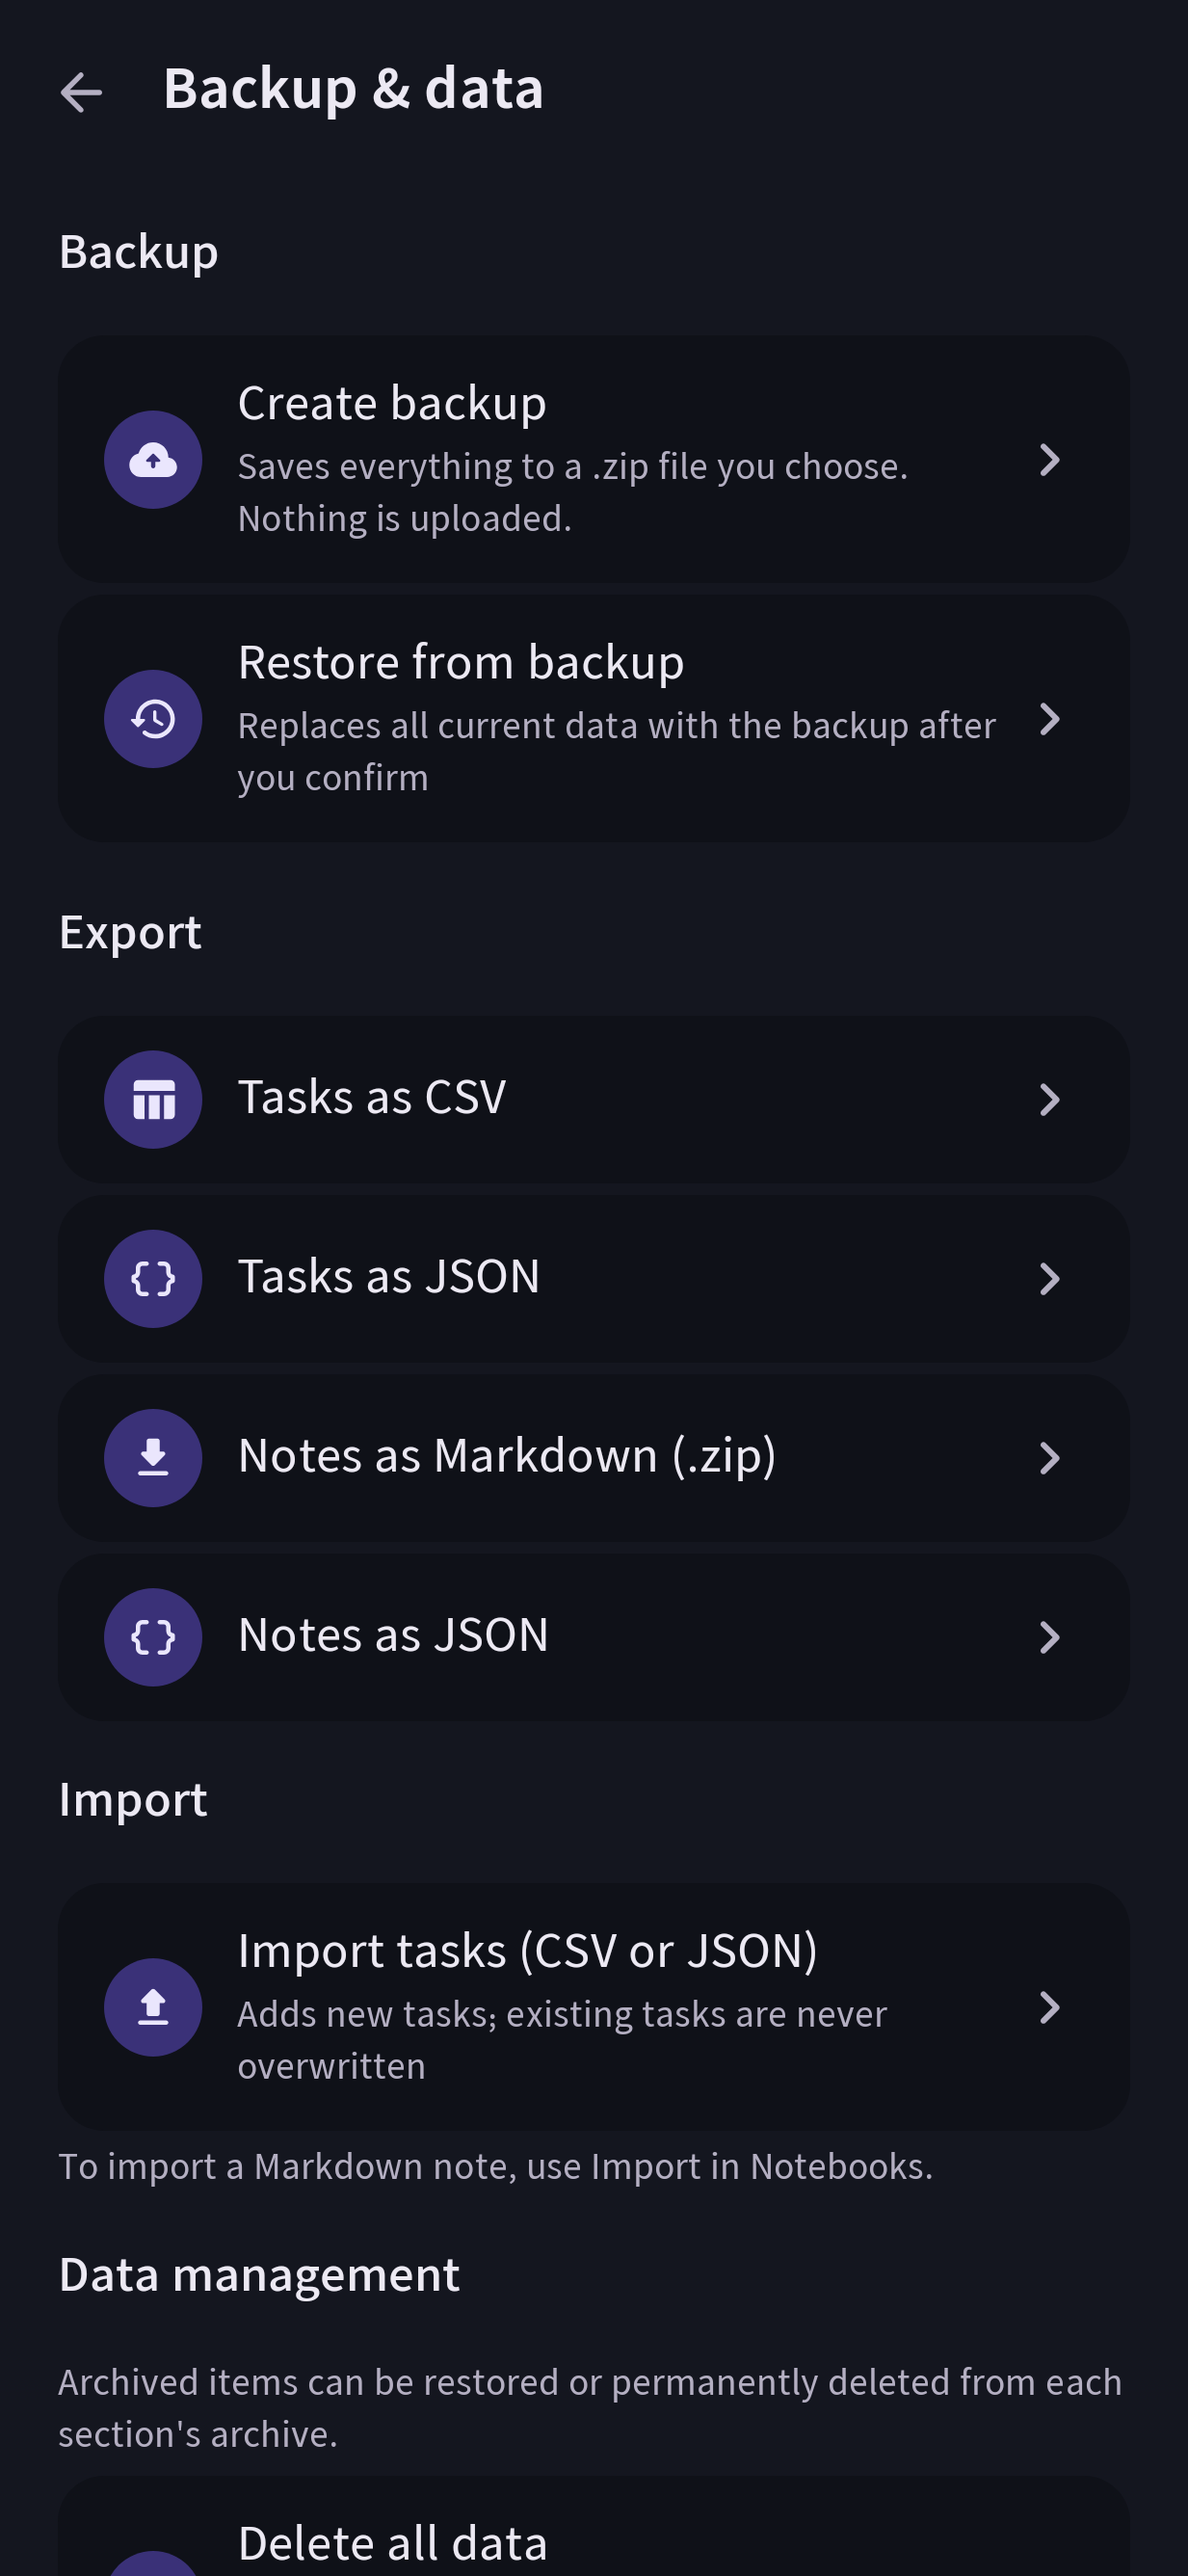
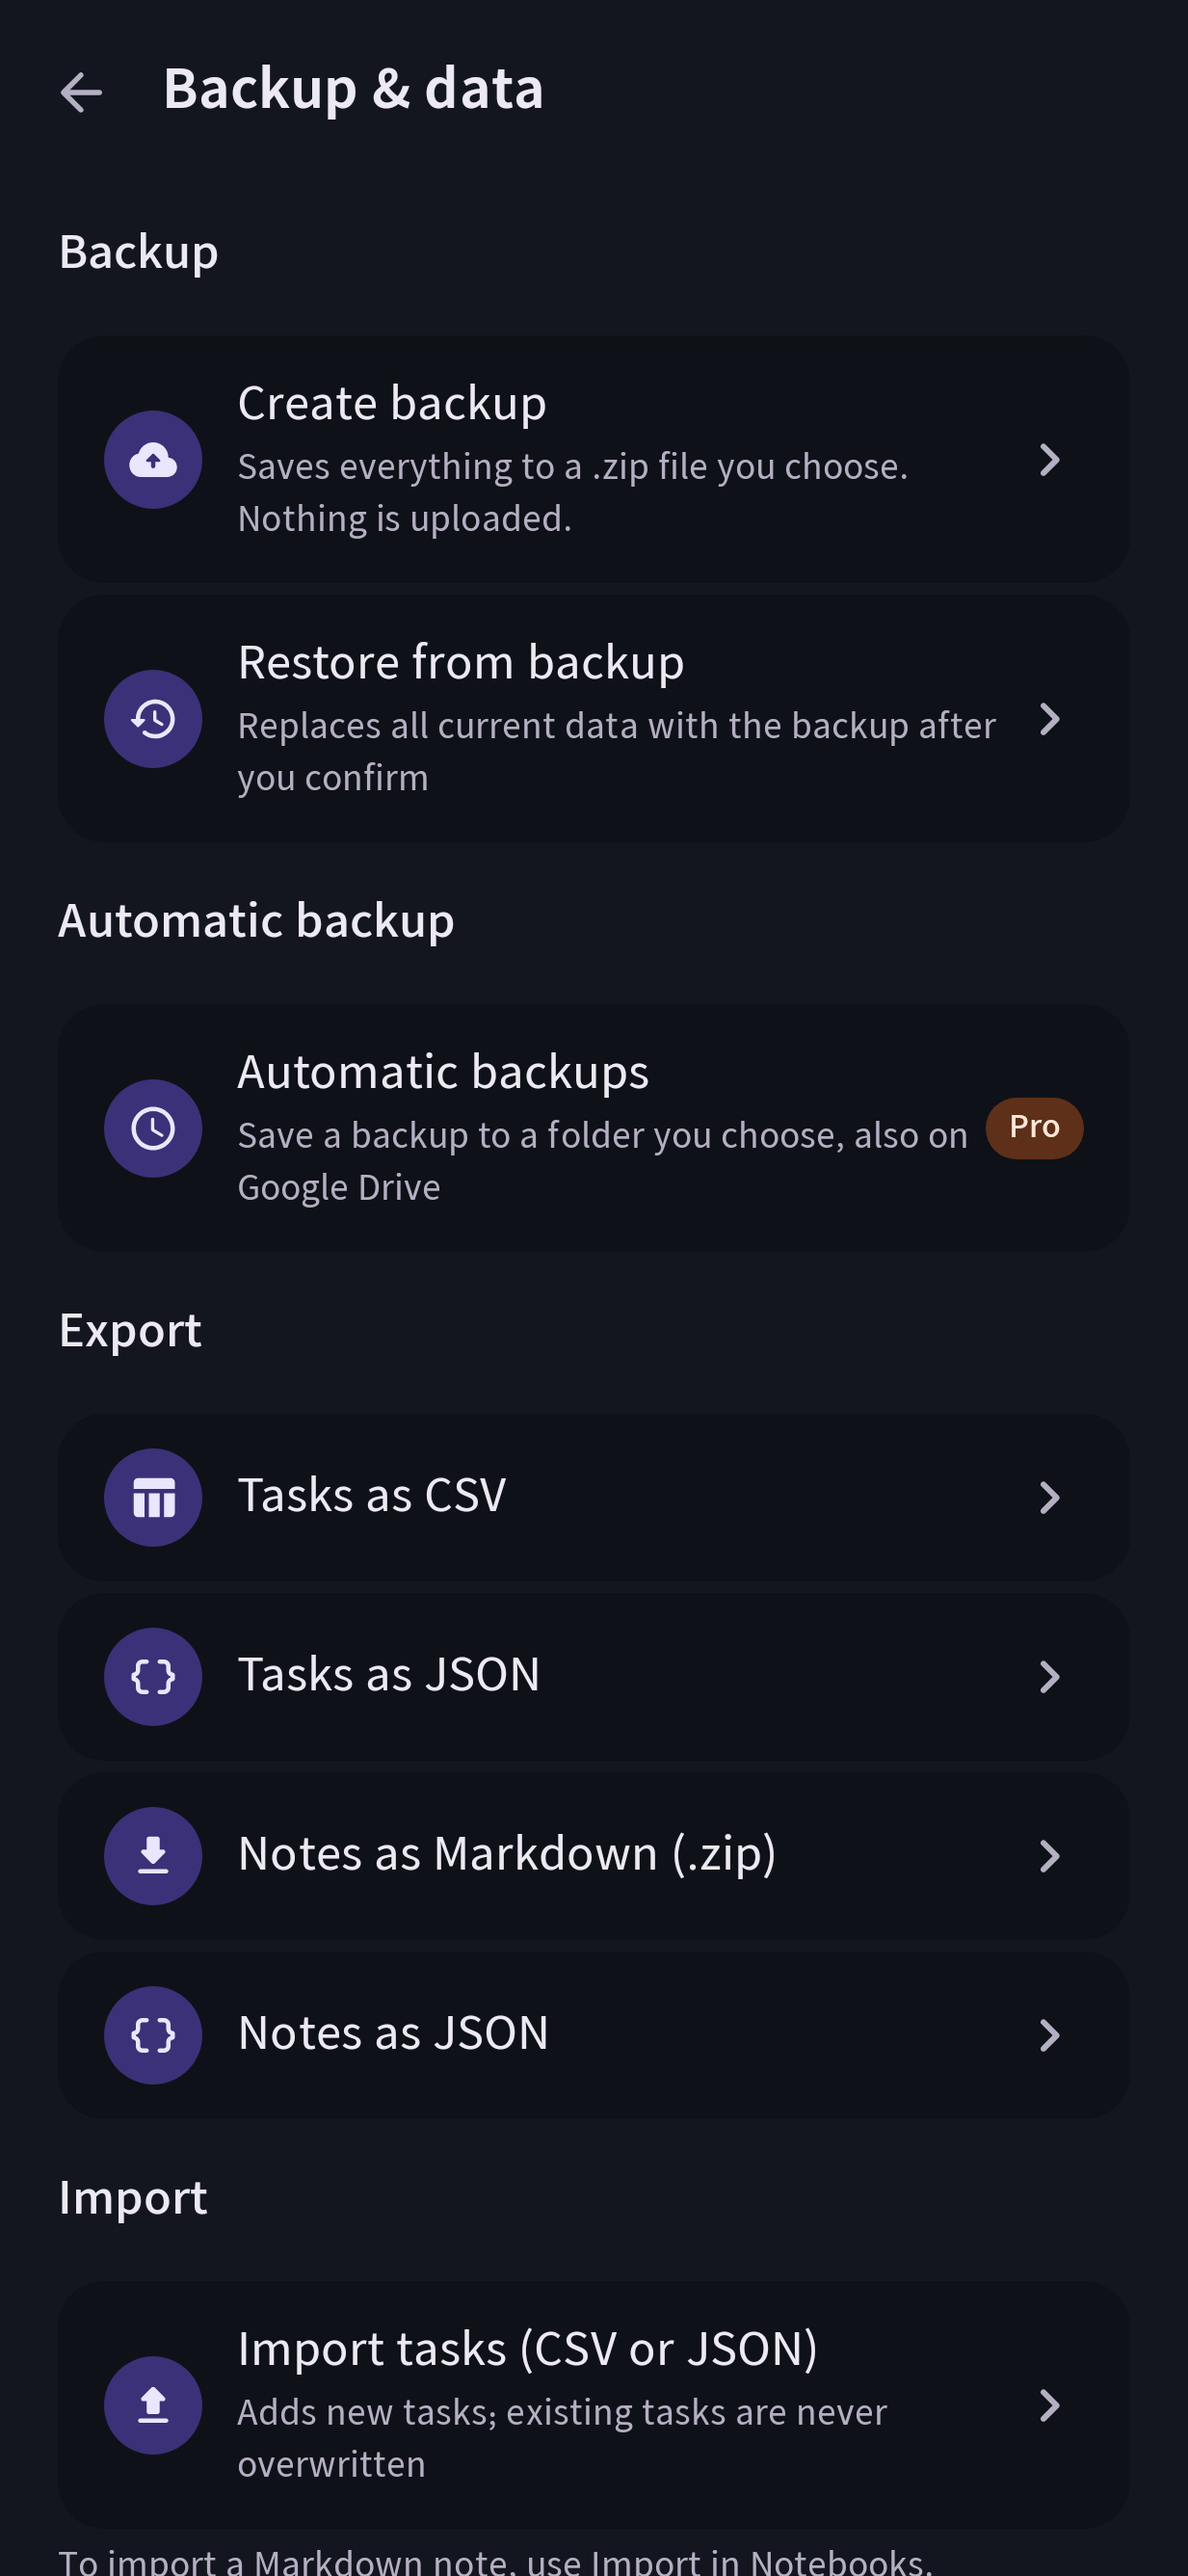
test: wait for the automatic-backup section before capturing; test counts
Claude-Session: https://claude.ai/code/session_016n6ukQ8XMjXXvU6T5eNS5b

diff --git a/app/src/test/kotlin/com/behnamjalali/planb/screenshots/AppScreenshotTest.kt b/app/src/test/kotlin/com/behnamjalali/planb/screenshots/AppScreenshotTest.kt
@@ -431,6 +431,8 @@ class AppScreenshotTest(private val variant: Variant) {
         capture("settings", "settings")
         click(s(SettingsR.string.settings_backup_restore))
         waitFor(hasText(s(SettingsR.string.backup_create)))
+        // The automatic-backup section appears once its device-only settings are read.
+        waitFor(hasText(s(SettingsR.string.auto_backup_summary)))
         capture("settings", "backup")
     }
 

diff --git a/TESTING.md b/TESTING.md
@@ -24,16 +24,16 @@ needs no emulator. CI also runs the device suite on an Android emulator.
 | `core:datetime` | 28 | Jalali conversion and month lengths (incl. leap years), month grids, recurrence (intervals, weekdays, month-end clamping, Jalali months, counts/until, DST) |
 | `core:database` | 16 | DAOs, cascades and constraints, FTS queries, migrations 1→2, 2→3 and 1→3 against the exported schemas (existing data survives), soft-delete filters of every list query, the v3 DAOs |
 | `core:datastore` | 8 | Defaults, round-trips, tolerance of malformed values |
-| `core:data` | 46 | Pro schema fields round-trip, trash excluded from lists and search, locked notes indexed by title only; task filtering/sorting/views, recurrence spawning, reminders scheduling, notes hierarchy, drafts, habits, goals, events validation, focus timing, search indexing, templates, **large-dataset performance** |
+| `core:data` | 65 | Locked-note crypto (round trip, wrong passphrase, tamper detection), note vault and restore on a new device, App lock timeout policy and controller, trash (Pro only, subtasks, restore re-indexes and reschedules, 30-day purge), activity history (merging, cap, no note bodies), Pro schema fields round-trip, trash excluded from lists and search, locked notes indexed by title only; task filtering/sorting/views, recurrence spawning, reminders scheduling, notes hierarchy, drafts, habits, goals, events validation, focus timing, search indexing, templates, **large-dataset performance** |
 | `core:notifications` | 11 | Reminder planning for tasks, recurring events and habits |
-| `core:backup` | 29 | Format 2 with v3 tables and attachment files (round trip, missing files, zip-slip names, size limits, rollback of files), backup round trip, validation of corrupt/foreign/newer archives, limits, transactional restore, CSV/JSON/Markdown export and non-overwriting import |
+| `core:backup` | 36 | Automatic backups (file names, pruning to 21 without touching other files, scheduling config, runner success/failure/skip), format 2 with v3 tables and attachment files (round trip, missing files, zip-slip names, size limits, rollback of files), backup round trip, validation of corrupt/foreign/newer archives, limits, transactional restore, CSV/JSON/Markdown export and non-overwriting import |
 | `core:billing` | 15 | Entitlement policy (lifetime, 7-day grace, clock moved back), offline cache, purchase, restore, revocation, on-device signature verification |
 | `core:ai` | 11 | Both wire formats against MockWebServer, error mapping, timeouts, HTTPS-only URLs, provider catalog, encrypted key storage and consent |
 | `feature:pro` | 9 | Paywall states, purchase, cancel, restore, store unavailable, price formatting, `ProGate` and `rememberProGuard` |
-| `feature:*` (others) | 85 | ViewModels of Today, Tasks, Habits, Focus and Search on real repositories (30), block editing, task form validation |
-| `app` | 143 | Persian default locale, smoke test, 9 end-to-end flows, 114 screenshot tests (including the Plan-B Pro screen), launcher/store icon rendering |
+| `feature:*` (others) | 91 | ViewModels of Today, Tasks, Habits, Focus and Search on real repositories (30), Trash and Activity, automatic backup settings, locking notes in the editor, block editing, task form validation |
+| `app` | 167 | Persian default locale, smoke test, 9 end-to-end flows, 138 screenshot tests (including the Plan-B Pro screen, Trash, Activity, Security and the lock screen), launcher/store icon rendering |
 
-Total: **450 JVM tests**, all passing locally and in CI.
+Total: **506 JVM tests**, all passing locally and in CI.
 
 ### End-to-end flows (`app/src/test/.../e2e`)
 
@@ -46,8 +46,8 @@ and restore round trip.
 
 ### Screenshot tests (`app/src/test/.../screenshots`)
 
-`AppScreenshotTest` launches the real app with seeded data and captures 27 screens in six
-variants (Persian/English × light/dark, plus 150% font in both languages): 162 images in
+`AppScreenshotTest` launches the real app with seeded data and captures 31 screens in six
+variants (Persian/English × light/dark, plus 150% font in both languages): 186 images in
 `artifacts/screenshots/<feature>/`, shown in [docs/UI_GALLERY.md](docs/UI_GALLERY.md). Clicks
 are dispatched through semantics actions (no touch ripples) and animations settle on the test
 clock, so images are pixel-stable. `AppIconTest` renders the adaptive icon, the themed icon and
